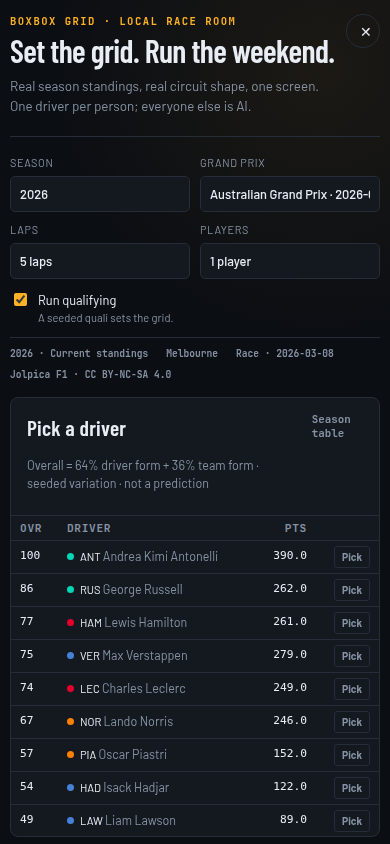
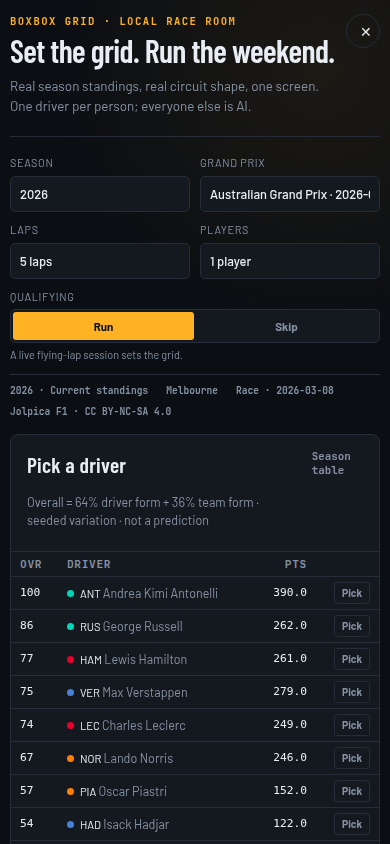
fix(v4.3): map each Grid lap across the full circuit
- use lapFraction(progress) instead of progress/laps in the Grid canvas
- add a five-lap mapping regression test
- make Run/Skip qualifying an explicit choice with a live session and gated continue
- preserve an explicit Grand Prix selection against late calendar responses
- add hover discovery copy and refresh v4.3 screenshots

diff --git a/web/src/components/GameView.tsx b/web/src/components/GameView.tsx
@@ -4,6 +4,7 @@ import { api } from "../api";
 import type { Geometry, Meeting, SessionInfo, StandingsPayload } from "../types";
 import {
   GAME_MODEL,
+  lapFraction,
   buildGameDrivers,
   type GameDriver,
   type GameLaps,
@@ -54,6 +55,7 @@ export default function GameView({ onClose }: Props) {
   const [sessions, setSessions] = useState<SessionInfo[]>([]);
   const [standings, setStandings] = useState<StandingsPayload | null>(null);
   const [loading, setLoading] = useState(false);
+  const [loadingSessions, setLoadingSessions] = useState(false);
   const [preparing, setPreparing] = useState(false);
   const [message, setMessage] = useState<string | null>(null);
   const [laps, setLaps] = useState<GameLaps>(5);
@@ -107,7 +109,6 @@ export default function GameView({ onClose }: Props) {
     setLoading(true);
     setStandings(null);
     setMeetings([]);
-    setMeetingKey(null);
     setSessions([]);
     setGeometry(null);
     setSim(null);
@@ -121,7 +122,13 @@ export default function GameView({ onClose }: Props) {
           (m) => m.meeting_name.includes("Grand Prix") && Date.parse(m.date_start) <= Date.now() + 86400000,
         );
         setMeetings(races);
-        setMeetingKey(races[0]?.meeting_key ?? null);
+        // Preserve an explicit selection if it is still valid; a late
+        // calendar response must never silently jump back to round 1.
+        setMeetingKey((current) =>
+          current != null && races.some((m) => m.meeting_key === current)
+            ? current
+            : races[0]?.meeting_key ?? null,
+        );
       })
       .catch(() => live && setMessage("The season table or calendar did not load."))
       .finally(() => live && setLoading(false));
@@ -138,7 +145,7 @@ export default function GameView({ onClose }: Props) {
   useEffect(() => {
     if (!year || !meetingKey) return;
     let live = true;
-    setLoading(true);
+    setLoadingSessions(true);
     setSessions([]);
     setGeometry(null);
     setSim(null);
@@ -148,7 +155,7 @@ export default function GameView({ onClose }: Props) {
       .sessions(year, meetingKey)
       .then((list) => live && setSessions(list))
       .catch(() => live && setMessage("The session list did not load."))
-      .finally(() => live && setLoading(false));
+      .finally(() => live && setLoadingSessions(false));
     return () => {
       live = false;
     };
@@ -201,7 +208,6 @@ export default function GameView({ onClose }: Props) {
       return;
     }
     setPreparing(true);
-    setLoading(true);
     setMessage(null);
     try {
       const geo = await api.sessionGeometry(raceSession.session_key);
@@ -223,10 +229,7 @@ export default function GameView({ onClose }: Props) {
     } catch (e) {
       if (mounted.current) setMessage(errorMessage(e));
     } finally {
-      if (mounted.current) {
-        setLoading(false);
-        setPreparing(false);
-      }
+      if (mounted.current) setPreparing(false);
     }
   };
 
@@ -258,7 +261,7 @@ export default function GameView({ onClose }: Props) {
   const standingsLabel = year ? yearLabel(year, latestYear) : "";
   const noDrivers = !gameDrivers.length;
   const startDisabled =
-    loading || preparing || !raceSession || noDrivers || players.some((id) => !id) || duplicateError != null;
+    loading || loadingSessions || preparing || !raceSession || noDrivers || players.some((id) => !id) || duplicateError != null;
   const playerLabels = new Map(players.filter((id): id is string => id != null).map((id, i) => [id, i + 1]));
 
   const body = (
@@ -329,13 +332,14 @@ export default function GameView({ onClose }: Props) {
                   <option value={4}>4 players</option>
                 </select>
               </label>
-              <label className="game-check">
-                <input type="checkbox" checked={quali} onChange={(e) => setQuali(e.target.checked)} />
-                <span>
-                  Run qualifying
-                  <small>{quali ? "A seeded quali sets the grid." : "Skip — the same seeded model still sets the grid."}</small>
-                </span>
-              </label>
+              <div className="game-quali-choice" role="group" aria-label="Qualifying">
+                <span>Qualifying</span>
+                <div className="game-choice-buttons">
+                  <button type="button" aria-pressed={quali} onClick={() => setQuali(true)}>Run</button>
+                  <button type="button" aria-pressed={!quali} onClick={() => setQuali(false)}>Skip</button>
+                </div>
+                <small>{quali ? "A live flying-lap session sets the grid." : "The same seeded grid is set without the session."}</small>
+              </div>
             </section>
 
             <div className="game-source">
@@ -434,7 +438,7 @@ export default function GameView({ onClose }: Props) {
                   <span>{GAME_MODEL}</span>
                 </div>
                 <button type="button" className="primary game-start" disabled={startDisabled} onClick={begin}>
-                  {preparing ? "Building circuit…" : "Set the grid →"}
+                  {preparing ? "Building circuit…" : quali ? "Run qualifying →" : "Set the seeded grid →"}
                 </button>
                 {preparing && (
                   <p className="dim small" role="status">
@@ -442,7 +446,7 @@ export default function GameView({ onClose }: Props) {
                   </p>
                 )}
                 {duplicateError && players.some((id) => id) && <p className="small warn">{duplicateError}</p>}
-                {!raceSession && !loading && <p className="small warn">This Grand Prix has no race session in the feed.</p>}
+                {!raceSession && !loadingSessions && <p className="small warn">This Grand Prix has no race session in the feed.</p>}
               </section>
             </div>
           </>
@@ -513,6 +517,17 @@ function GameQuali(p: {
 }) {
   const pole = p.grid[0];
   const poleDriver = p.drivers.find((d) => d.id === pole?.driverId);
+  const [shown, setShown] = useState(0);
+  const complete = shown >= p.grid.length;
+
+  useEffect(() => {
+    setShown(0);
+    const timer = window.setInterval(() => {
+      setShown((current) => Math.min(p.grid.length, current + 1));
+    }, 70);
+    return () => window.clearInterval(timer);
+  }, [p.grid]);
+
   return (
     <section className="game-stage" aria-label="Qualifying session">
       <header className="game-stage-head">
@@ -520,21 +535,22 @@ function GameQuali(p: {
           <p className="game-kicker">{p.meeting?.meeting_name ?? "Race"} · Qualifying</p>
           <h2>One flying lap. The order is set.</h2>
           <p className="dim small">
-            Pole {poleDriver?.code ?? "—"} · seed {p.seed} · simulated from the season table
+            {complete ? `Pole ${poleDriver?.code ?? "—"}` : "Flying laps in progress"} · seed {p.seed} · simulated from the season table
           </p>
         </div>
         <button type="button" className="game-pill" onClick={p.onBack}>Back to setup</button>
       </header>
       <div className="game-quali-summary" role="status">
-        <span className="game-kicker">Session complete</span>
-        <strong>{poleDriver ? `${poleDriver.name} on pole` : "Qualifying complete"}</strong>
+        <span className="game-kicker">{complete ? "Session complete" : `Live session · ${shown}/${p.grid.length} laps`}</span>
+        <strong>{complete ? (poleDriver ? `${poleDriver.name} on pole` : "Qualifying complete") : "Reading the flying laps…"}</strong>
+        <div className="game-quali-progress" aria-hidden="true"><i style={{ width: `${p.grid.length ? (shown / p.grid.length) * 100 : 0}%` }} /></div>
         <span className="dim small">Single flying lap · no Q1/Q2/Q3 split in v1</span>
       </div>
       <div className="game-grid-table">
         <table className="laps game-table">
           <thead><tr><th>Pos</th><th>Driver</th><th>Team</th><th>Lap time</th><th>Gap</th><th>Player</th></tr></thead>
           <tbody>
-            {p.grid.map((row) => {
+            {p.grid.slice(0, shown).map((row) => {
               const driver = p.drivers.find((d) => d.id === row.driverId);
               const best = pole?.time ?? row.time;
               return (
@@ -552,7 +568,7 @@ function GameQuali(p: {
         </table>
       </div>
       <div className="game-actions">
-        <button type="button" className="primary" onClick={p.onContinue}>Continue to grid →</button>
+        <button type="button" className="primary" onClick={p.onContinue} disabled={!complete}>Continue to grid →</button>
         <p className="dim small">The same seeded times are used by the race; skipping qualifying does not randomise a different grid.</p>
       </div>
     </section>
@@ -701,6 +717,7 @@ function GameRace(p: {
               return <span key={id}><i style={{ background: driver?.color }} />P{player} {driver?.code}</span>;
             })}
           </div>
+          <p className="game-hint">Hover a car for position, pace, gap and race mode.</p>
         </div>
         <aside className="game-tower" aria-label="Race order">
           <h3>Order</h3>
@@ -814,7 +831,7 @@ function GameCanvas(p: {
     const rows = [...p.state.rows].reverse();
     for (const row of rows) {
       const driver = p.players.has(row.driverId) ? p.players.get(row.driverId) : null;
-      const pt = sample(row.progress / p.sim.laps);
+      const pt = sample(lapFraction(row.progress));
       const meta = p.drivers.find((d) => d.id === row.driverId);
       const marker = driver ? 7 : 4;
       const px = X(pt.x);

diff --git a/web/src/components/game.css b/web/src/components/game.css
@@ -82,22 +82,40 @@
   color: var(--ink);
   font: 500 0.8rem "Barlow", system-ui, sans-serif;
 }
-.game-check {
-  display: flex !important;
-  align-items: flex-start;
-  gap: 8px !important;
-  text-transform: none !important;
-  letter-spacing: 0 !important;
-  color: var(--ink) !important;
-  font-size: 0.8rem !important;
-  padding-top: 20px;
-}
-.game-check input { margin-top: 2px; accent-color: var(--amber); }
-.game-check small {
-  display: block;
-  margin-top: 2px;
+.game-quali-choice {
+  display: grid;
+  gap: 5px;
   color: var(--dim);
-  font-size: 0.7rem;
+  font-size: 0.68rem;
+  letter-spacing: 0.06em;
+  text-transform: uppercase;
+}
+.game-choice-buttons {
+  display: flex;
+  gap: 2px;
+  padding: 2px;
+  border: 1px solid var(--line);
+  border-radius: 5px;
+  background: var(--panel);
+}
+.game-choice-buttons button {
+  flex: 1;
+  border: 0;
+  border-radius: 3px;
+  background: transparent;
+  color: var(--dim);
+  font: 600 0.72rem "Barlow", system-ui, sans-serif;
+  padding: 7px 8px;
+  cursor: pointer;
+}
+.game-choice-buttons button[aria-pressed="true"] {
+  background: var(--amber);
+  color: #0b0f16;
+}
+.game-quali-choice small {
+  text-transform: none;
+  letter-spacing: 0;
+  font-size: 0.68rem;
   line-height: 1.25;
 }
 .game-source {
@@ -332,7 +350,7 @@
   .game-head { gap: 10px; }
   .game-lede { font-size: 0.84rem; }
   .game-setup { grid-template-columns: 1fr 1fr; }
-  .game-check { grid-column: 1 / -1; padding-top: 2px; }
+  .game-quali-choice { grid-column: 1 / -1; }
   .game-race-grid { grid-template-columns: 1fr; }
   .game-stage-head { align-items: flex-start; flex-direction: column; }
   .game-table th, .game-table td { padding: 6px 6px; font-size: 0.7rem; }
@@ -353,6 +371,25 @@
   color: var(--ink);
   font-family: "Barlow Condensed", system-ui, sans-serif;
   font-size: 1.2rem;
+}
+.game-quali-progress {
+  width: min(360px, 100%);
+  height: 4px;
+  margin: 4px 0 2px;
+  background: var(--line);
+  border-radius: 2px;
+  overflow: hidden;
+}
+.game-quali-progress i {
+  display: block;
+  height: 100%;
+  background: var(--amber);
+  transition: width 80ms linear;
+}
+.game-hint {
+  margin: 7px 2px 0;
+  color: var(--dim);
+  font-size: 0.7rem;
 }
 .game-lapstrip {
   display: flex;

diff --git a/web/src/game.test.ts b/web/src/game.test.ts
@@ -1,6 +1,7 @@
 import { describe, expect, it } from "vitest";
 import {
   buildGameDrivers,
+  lapFraction,
   mulberry32,
   raceState,
   simulateQualifying,
@@ -39,6 +40,17 @@ describe("buildGameDrivers", () => {
   it("is deterministic and returns an empty field for an empty table", () => {
     expect(buildGameDrivers(standings)).toEqual(buildGameDrivers(standings));
     expect(buildGameDrivers({ ...standings, drivers: [], constructors: [] })).toEqual([]);
+  });
+});
+
+describe("lapFraction", () => {
+  it("maps lap progress back onto one circuit per lap", () => {
+    expect(lapFraction(0)).toBe(0);
+    expect(lapFraction(1)).toBe(0);
+    expect(lapFraction(2.25)).toBeCloseTo(0.25);
+    expect(lapFraction(4.9)).toBeCloseTo(0.9);
+    expect(lapFraction(5)).toBe(0);
+    expect(lapFraction(-0.2)).toBeCloseTo(0.8);
   });
 });
 

diff --git a/web/src/game.ts b/web/src/game.ts
@@ -174,6 +174,13 @@ function gaussian(rng: () => number): number {
   return Math.max(-3, Math.min(3, Math.sqrt(-2 * Math.log(u)) * Math.cos(2 * Math.PI * v)));
 }
 
+/** Fractional circuit position for a lap-based progress value (0…laps). */
+export function lapFraction(progress: number): number {
+  if (!Number.isFinite(progress)) return 0;
+  const value = progress % 1;
+  return value < 0 ? value + 1 : value;
+}
+
 export function simulateQualifying(drivers: GameDriver[], seed: number): QualiRow[] {
   const rng = mulberry32(seed ^ 0xa5a5a5a5);
   return drivers

diff --git a/docs/screenshots/README.md b/docs/screenshots/README.md
@@ -1,6 +1,6 @@
 # Screenshots
 
-Refreshed against the **v4.2.0 build** on 2026-11-22. New captures use 1440×900,
+Refreshed against the **v4.3.0 build** on 2026-11-22. New captures use 1440×900,
 with phone captures at 390×844; older v3 images remain as reference.
 They are referenced from the root README and this page.
 
@@ -61,11 +61,12 @@ They are referenced from the root README and this page.
 | `52-3d-day.png` | v4 3D in the day theme |
 | `53-grid-lobby.png` | BoxBox Grid setup: season, Grand Prix, laps, players, qualifying |
 | `54-grid-lineup.png` | 2-player line-up with two distinct drivers |
-| `55-grid-qualifying.png` | v4.2 qualifying session: pole, full order, lap times, player marker |
-| `56-grid-race.png` | v4.2 local race at 1×: lap strip, cars on circuit, player ring, live order |
+| `55-grid-qualifying.png` | v4.3 live/complete single flying-lap qualifying session with pole and player marker |
+| `56-grid-race.png` | v4.3 local race at 1×: lap strip, cars crossing the full circuit, player ring, live order |
 | `57-grid-result.png` | Classification and player marker after the chequered flag |
 | `58-3d-mobile.png` | v4.1 3D Free at 390 px |
 | `59-grid-mobile.png` | BoxBox Grid at 390 px |
 | `60-3d-free.png` | v4.1 3D Free with the field visible as markers and no duplicate circuit line |
 | `61-3d-selected.png` | v4.2 3D selected-driver telemetry card |
 | `62-grid-hover.png` | v4.2 Grid hover: pace, gap, mode, player identity |
+| `63-grid-skip.png` | v4.3 explicit “Qualifying skipped” grid state |
